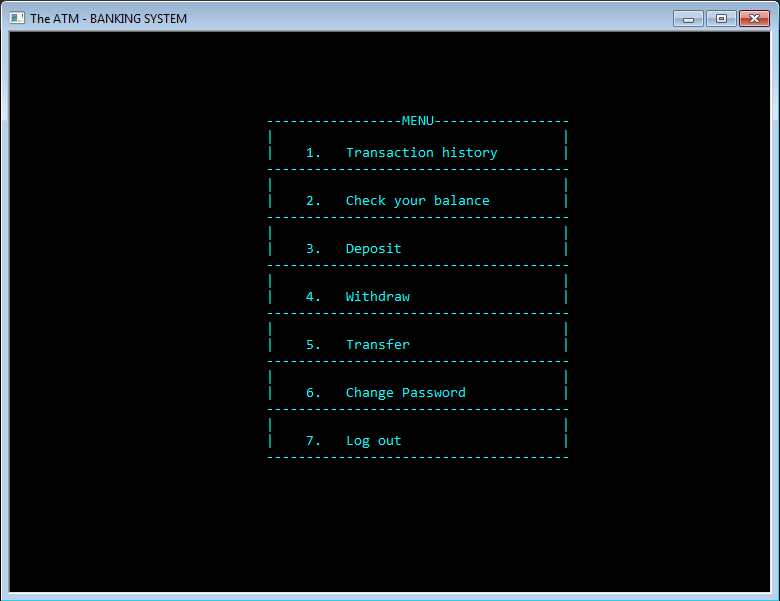
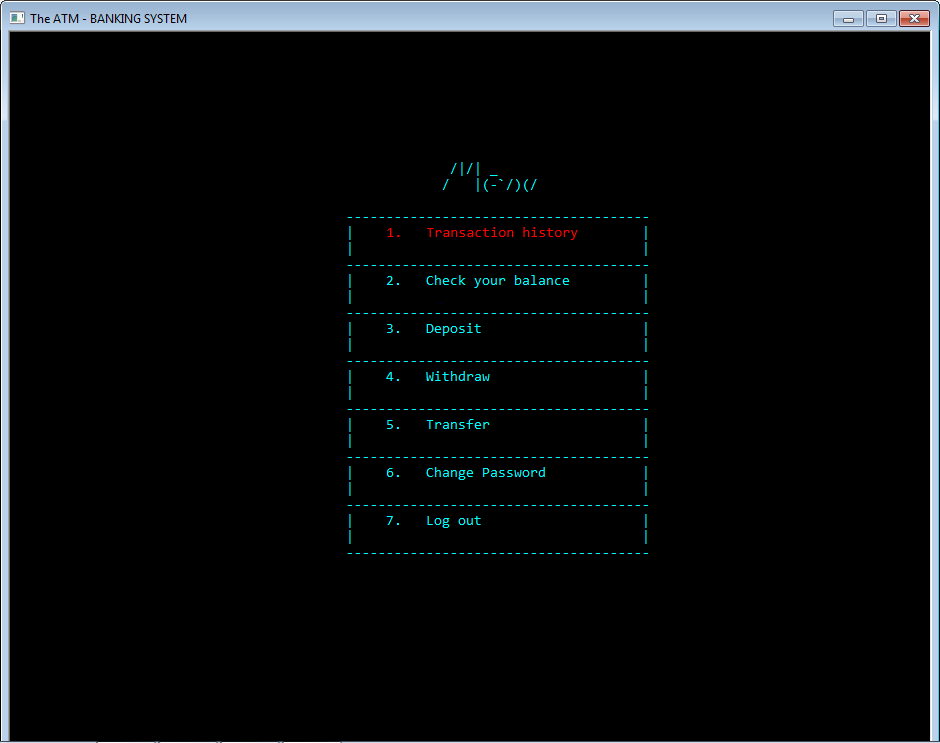
tidy up and decor console

diff --git a/_ATM_/src/main.cpp b/_ATM_/src/main.cpp
@@ -2,7 +2,7 @@
 #include "../include/showScreen.h"
 
 #define WIDTH 115
-#define HEIGHT 35
+#define HEIGHT 45
 const int moneyArr[6]= {10000,20000,50000,100000,200000,500000};
 
 
@@ -33,16 +33,21 @@ int main()
                      << "   - Must be at least 8 characters but not more than 20." << "\n"
                      << "   - Must contain at least one uppercase letter and one number."  << "\n"
                      << "REMEMBER that both username and password MUST NOT contain spaces." << "\n\n";
-                cout << "                           Sign up process:" << "\n";
-                cout << "   Enter your ID: ";
+                setColor(AQUA);
+                cout << "                                            __          \n";
+                cout << "                                           (  `_    //  \n";
+                cout << "                                          __)/(//) (//) \n";
+                cout << "                                             _/     /   \n\n";
+                cout << "      Enter your ID: ";
                 getline(cin,tempID);
-                cout << "   Enter your password: ";
+                cout << "      Enter your password: ";
                 tempPass=maskingPass();
                 temp.setInfo(tempID,tempPass);
                 cout << "\n";
-                cout << "   Confirm your password: ";
+                cout << "      Confirm your password: ";
                 passcf=maskingPass();
-                cout << "\n";
+                cout << "\n\n";
+                setColor(WHITE);
 // Kiểm tra tài khoản hợp lệ không
                 if(!is_ID_Valid(tempID))
                 {
@@ -158,7 +163,9 @@ int main()
                             int hOpt=showOptAndChoose(WIDTH,HEIGHT,1);
                             if(hOpt==1)
                             {
-                                cout << "\t\t\t\t\t Transaction history";
+                                cout << "\t\t\t\t+-+-+-+-+-+-+-+-+-+-+-+ +-+-+-+-+-+-+-+\n";
+                                cout << "\t\t\t\t|T|r|a|n|s|a|c|t|i|o|n| |H|i|s|t|o|r|y|\n";
+                                cout << "\t\t\t\t+-+-+-+-+-+-+-+-+-+-+-+ +-+-+-+-+-+-+-+";
                                 test.checkTransHistory(accountInfo);
                                 goBack();
                             }
@@ -179,7 +186,10 @@ int main()
                                 int balance;
                                 balance=test.checkBalance(accountInfo);
                                 test.setBalance(balance);
-                                cout << "\nYour balance is: " << balance << " VND." << "\n\n";
+                                cout << "\t\t\t\t\t+-+-+-+-+-+-+-+\n";
+                                cout << "\t\t\t\t\t|B|a|l|a|n|c|e|\n";
+                                cout << "\t\t\t\t\t+-+-+-+-+-+-+-+\n\n";
+                                cout << "\t\tYour balance is: " << balance << " VND." << "\n\n";
                                 goBack();
                             }
                             if(bOpt==2)
@@ -196,7 +206,9 @@ int main()
                             int dOpt=showOptAndChoose(WIDTH,HEIGHT,3);
                             if(dOpt==1)
                             {
-                                cout << "\t\t\t\t\t\t Deposit\n\n";
+                                cout << "\t\t\t\t\t+-+-+-+-+-+-+-+\n";
+                                cout << "\t\t\t\t\t|D|e|p|o|s|i|t|\n";
+                                cout << "\t\t\t\t\t+-+-+-+-+-+-+-+\n\n";
                                 int denominations;
                                 int bills;
                                 bool checkDenominations=false;
@@ -252,7 +264,9 @@ int main()
 // Rút tiền
                             if(wOpt==1)
                             {
-                                cout << "\t\t\t\t\t\t Withdraw\n\n";
+                                cout << "\t\t\t\t\t+-+-+-+-+-+-+-+-+\n";
+                                cout << "\t\t\t\t\t|W|i|t|h|d|r|a|w|\n";
+                                cout << "\t\t\t\t\t+-+-+-+-+-+-+-+-+\n\n";
 // Đọc số dư tài khoản, đọc số tờ có trong cây ATM
                                 ATM_money=readDataFromFileToMap("data\\ATMinfo.txt");
                                 int balance=test.checkBalance(accountInfo);
@@ -306,7 +320,9 @@ int main()
                             {
                                 User accountReceive;
                                 string accountReceiveID;
-                                cout << "\t\t\t\t\t\t Transfer \n\n";
+                                cout << "\t\t\t\t\t+-+-+-+-+-+-+-+-+\n";
+                                cout << "\t\t\t\t\t|T|r|a|n|s|f|e|r|\n";
+                                cout << "\t\t\t\t\t+-+-+-+-+-+-+-+-+\n\n";
                                 cout << "Enter username (ID) you want to transfer: ";
                                 getline(cin,accountReceiveID);
                                 accountReceive.setInfo(accountReceiveID,"0");
@@ -354,7 +370,9 @@ int main()
                             int pOpt=showOptAndChoose(WIDTH,HEIGHT,6);
                             if(pOpt==1)
                             {
-                                cout << "\t\t\t\t\t\t Change Password\n\n";
+                                cout << "\t\t\t\t+-+-+-+-+-+-+ +-+-+-+-+-+-+-+-+\n";
+                                cout << "\t\t\t\t|C|h|a|n|g|e| |P|a|s|s|w|o|r|d|\n";
+                                cout << "\t\t\t\t+-+-+-+-+-+-+ +-+-+-+-+-+-+-+-+\n\n";
                                 string currentpass;
 // Nhập mật khẩu hiện tại
                                 cout << "Enter your current password: ";
@@ -427,7 +445,7 @@ int main()
                             Sleep(700);
                             system("cls");
                             setColor(YELLOW);
-                            cout << "\n\n\n\n\n\n\n";
+                            cout << "\n\n\n\n\n\n\n\n\n\n";
                             cout <<"   _______ _                 _                           __                       _                                "
                                  <<"  |__   __| |               | |                         / _|                     (_)                               "
                                  <<"     | |  | |__   __ _ _ __ | | __  _   _  ___  _   _  | |_ ___  _ __   _   _ ___ _ _ __   __ _   ________  _   _  "

diff --git a/_ATM_/src/showScreen.cpp b/_ATM_/src/showScreen.cpp
@@ -20,8 +20,14 @@ int showDisplayAndChooseOpt(int x, int y)
     char key;
     ShowCur(false);
     setColor(AQUA);
-    gotoXY(x/2-14,y/2-11);
-    std::cout << "The ATM - BANKING SYSTEM !!!";
+    gotoXY(x/2-30,y/2-15);
+    std::cout << "____        _ ____            __              __            ";
+    gotoXY(x/2-30,y/2-14);
+    std::cout << " /  / _    /_| /  /|/|  __   / _)_   / .  _  (     __/_  _  ";
+    gotoXY(x/2-30,y/2-13);
+    std::cout << "/  /)(-`  /  |/  /   |      /(_)(//)/(//)(/ __)(/_) /(-`//) ";
+    gotoXY(x/2-30,y/2-12);
+    std::cout << "                                       _/     /             ";
     int tempY = y/2-9;
 // Vẽ box
     for (int i = 0; i < 4; i++)
@@ -96,20 +102,19 @@ int showMenuAndChooseOpt(int x, int y)
     char key;
     ShowCur(false);
     setColor(AQUA);
-    gotoXY(x/2-15,y/2-12);
-    std::cout << "-----------------MENU-----------------";
+    gotoXY(x/2-3,y/2-14);
+    std::cout << " /|/| _     ";
+    gotoXY(x/2-3,y/2-13);
+    std::cout << "/   |(-`/)(/";
     int tempY = y/2-11;
     for (int i = 0; i < 8; i++)
     {
-        if(i!=0)
+        for (int j = 0; j < 38; j++)
         {
-            for (int j = 0; j < 38; j++)
-            {
-                gotoXY(x/2-15 + j, tempY);
-                std::cout << "-";
-            }
-            tempY++;
+            gotoXY(x/2-15 + j, tempY);
+            std::cout << "-";
         }
+        tempY++;
         if (i != 7)
         {
             for(int j=tempY; j<tempY+2; j++)
@@ -182,8 +187,14 @@ int showOptAndChoose(int x,int y,int caseOpt)
     char key;
     ShowCur(false);
     setColor(AQUA);
-    gotoXY(x/2-11,y/2-9);
-    std::cout << "Please choose an option";
+    gotoXY(x/2-13,y/2-12);
+    std::cout << "  _                              ";
+    gotoXY(x/2-13,y/2-11);
+    std::cout << " / )/      _ _    _       _/.    ";
+    gotoXY(x/2-13,y/2-10);
+    std::cout << "(__/)()()_) (-`  (//) ()/)//()/) ";
+    gotoXY(x/2-13,y/2-9);
+    std::cout << "                       /         ";
     int tempY = y/2-7;
     for (int i = 0; i < 3; i++)
     {

diff --git a/_ATM_/src/_ATM_.cpp b/_ATM_/src/_ATM_.cpp
@@ -51,8 +51,12 @@ bool User::is_Login_Successfully(int x, int y)
     int check=5;
     do
     {
+        gotoXY(x/2-7,y/2-8);
+        cout << " /    _  / ";
+        gotoXY(x/2-7,y/2-7);
+        cout << "(__()(/ //)";
         gotoXY(x/2-7,y/2-6);
-        cout << "Log in process:";
+        cout << "    _/     ";
         gotoXY(x/2-15,y/2-4);
         cout << "Enter your ID: ";
         getline(cin,this->id);
@@ -106,7 +110,7 @@ void User::checkTransHistory(const string& path)
         {
             string temp;
             getline(fileAccountIn,temp);
-            cout << temp << "\n";
+            cout << "\t" << temp << "\n";
         }
     }
     else

diff --git a/_ATM_/src/mysupplib.cpp b/_ATM_/src/mysupplib.cpp
@@ -186,7 +186,6 @@ void updateBalanceInFile(const std::string& _path,int newBalance)
             getline(fileAccountIn,line);
             tempOut << line << "\n";
         }
-        tempOut.seekp(-1,std::ios_base::cur);
     }
     else
         std::cout << "Can't open file.";
